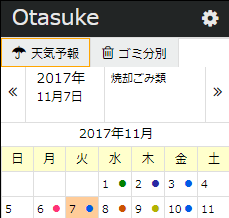
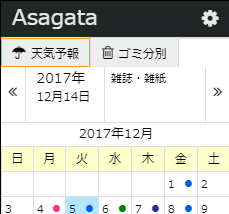
Fix title 'Otasuke' to 'Asagata'

diff --git a/index.html b/index.html
@@ -70,16 +70,23 @@
                      <li><img src="./images/javascript.png"><span>JavaScript</span></li>
                      <li><img src="./images/html.png"><span>HTML</span></li>
                      <li><img src="./images/css.png"><span>CSS</span></li>
+                     <li><img src="./images/sass.png"><span>Sass</span></li>
+                     <li><img src="./images/nodejs.png"><span>Node.js</span></li>
                   </ul>
                </div>
                <div class="skill-box">
                   <p id="trans-frameworks" class="header"></p>
                   <ul>
                      <li><img src="./images/rails.png"><span>Ruby on Rails</span></li>
-                     <li><img src="./images/nodejs.png"><span>Node.js</span></li>
                      <li><img src="./images/vuejs.png"><span>Vue.js</span></li>
-                     <li><img src="./images/sass.png"><span>Sass</span></li>
                      <li><img src="./images/electron.png"><span>Electron</span></li>
+                  </ul>
+               </div>
+               <div class="skill-box">
+                  <p id="trans-sqls" class="header"></p>
+                  <ul>
+                     <li><img src="./images/mysql.png"><span>MySQL</span></li>
+                     <li><img src="./images/postgresql.png"><span>PostgreSQL</span></li>
                   </ul>
                </div>
                <div class="skill-box">
@@ -88,11 +95,10 @@
                      <li><img src="./images/centos.png"><span>CentOS</span></li>
                      <li><img src="./images/apache.png"><span>Apache</span></li>
                      <li><img src="./images/heroku.png"><span>Heroku</span></li>
-                     <li><img src="./images/mysql.png"><span>MySQL</span></li>
                   </ul>
                </div>
                <div class="skill-box">
-                  <p id="trans-tools" class="header"></p>
+                  <p id="trans-others" class="header"></p>
                   <ul>
                      <li><img src="./images/github.png"><span>Git(Github)</span></li>
                      <li><img src="./images/gulp.png"><span>Gulp</span></li>
@@ -122,7 +128,7 @@
                      <ul class="techs">
                         <li><span id="trans-noh-langs"></span>：Ruby, JavaScript, HTML, CSS</li>
                         <li><span id="trans-noh-frameworks"></span>：Ruby on Rails, Vue.js, Sass</li>
-                        <li><span id="trans-noh-envs"></span>：CentOS, Heroku, MySQL</li>
+                        <li><span id="trans-noh-envs"></span>：CentOS, Heroku, PostgreSQL</li>
                         <li><span id="trans-noh-tools"></span>：Git, Atom</li>
                      </ul>
                   </div>
@@ -133,16 +139,16 @@
                      <img src="./images/work2.png">
                   </div>
                   <div class="description">
-                     <h3>Otasuke</h3>
-                     <p id="trans-otasuke-description"></p>
+                     <h3>Asagata</h3>
+                     <p id="trans-asagata-description"></p>
                      <ul class="links">
-                        <li><a href="https://github.com/Shantti-Y/otasuke" target="_blank"><span id="trans-otasuke-link-1"></span></a></li>
+                        <li><a href="https://github.com/Shantti-Y/otasuke" target="_blank"><span id="trans-asagata-link-1"></span></a></li>
                      </ul>
                      <ul class="techs">
-                        <li><span id="trans-otasuke-langs"></span>：JavaScript, HTML, CSS</li>
-                        <li><span id="trans-otasuke-frameworks"></span>：Node.js, Vue.js, Sass, Electron</li>
-                        <li><span id="trans-otasuke-envs"></span>：CentOS, Heroku</li>
-                        <li><span id="trans-otasuke-tools"></span>：Git, Gulp, Atom</li>
+                        <li><span id="trans-asagata-langs"></span>：JavaScript, HTML, CSS</li>
+                        <li><span id="trans-asagata-frameworks"></span>：Node.js, Vue.js, Sass, Electron</li>
+                        <li><span id="trans-asagata-envs"></span>：CentOS, Heroku</li>
+                        <li><span id="trans-asagata-tools"></span>：Git, Gulp, Atom</li>
                      </ul>
                   </div>
                </div>

diff --git a/scripts/script.js b/scripts/script.js
@@ -53,8 +53,9 @@ var transwords = [
    // Skills
    new Transword('program-langs', '使用言語', 'Languages'),
    new Transword('frameworks', 'フレームワーク', 'Frameworks'),
+   new Transword('sqls', 'データベース', 'Databases'),
    new Transword('envs', '開発環境', 'Environments'),
-   new Transword('tools', 'ツール群', 'Tools'),
+   new Transword('others', 'その他', 'Others'),
    // Works
    new Transword('noh-description', '全国の能楽公演を検索できるWebアプリ。自主公演の開催などユーザ自身が公演情報を作成・提供することも可能。</br>' +
                                     '現在α版リリース。随時機能追加予定。',
@@ -69,15 +70,15 @@ var transwords = [
    new Transword('noh-envs', '開発環境', 'Environments'),
    new Transword('noh-tools', 'ツール群', 'Tools'),
 
-   new Transword('otasuke-description', '滋賀県草津市の天気予報、ゴミ分別カレンダーを確認できるデスクトップアプリ</br>' +
+   new Transword('asagata-description', '滋賀県草津市の天気予報、ゴミ分別カレンダーを確認できるデスクトップアプリ</br>' +
                                         '現在開発中。2017年12月末リリース予定',
                                         "The desktop application providing weather report and trash separation calendar for residents in Shiga prefecture.</br>"+
                                         "I'm developing it and will launch in this year."),
-   new Transword('otasuke-link-1', 'Githubリポジトリ', 'Github Repository'),
-   new Transword('otasuke-langs', '使用言語', 'Languages'),
-   new Transword('otasuke-frameworks', 'フレームワーク', 'Frameworks'),
-   new Transword('otasuke-envs', '開発環境', 'Environments'),
-   new Transword('otasuke-tools', 'ツール群', 'Tools')
+   new Transword('asagata-link-1', 'Githubリポジトリ', 'Github Repository'),
+   new Transword('asagata-langs', '使用言語', 'Languages'),
+   new Transword('asagata-frameworks', 'フレームワーク', 'Frameworks'),
+   new Transword('asagata-envs', '開発環境', 'Environments'),
+   new Transword('asagata-tools', 'ツール群', 'Tools')
 ];
 // Translate between English and Japanese
 var lang = 'en'
